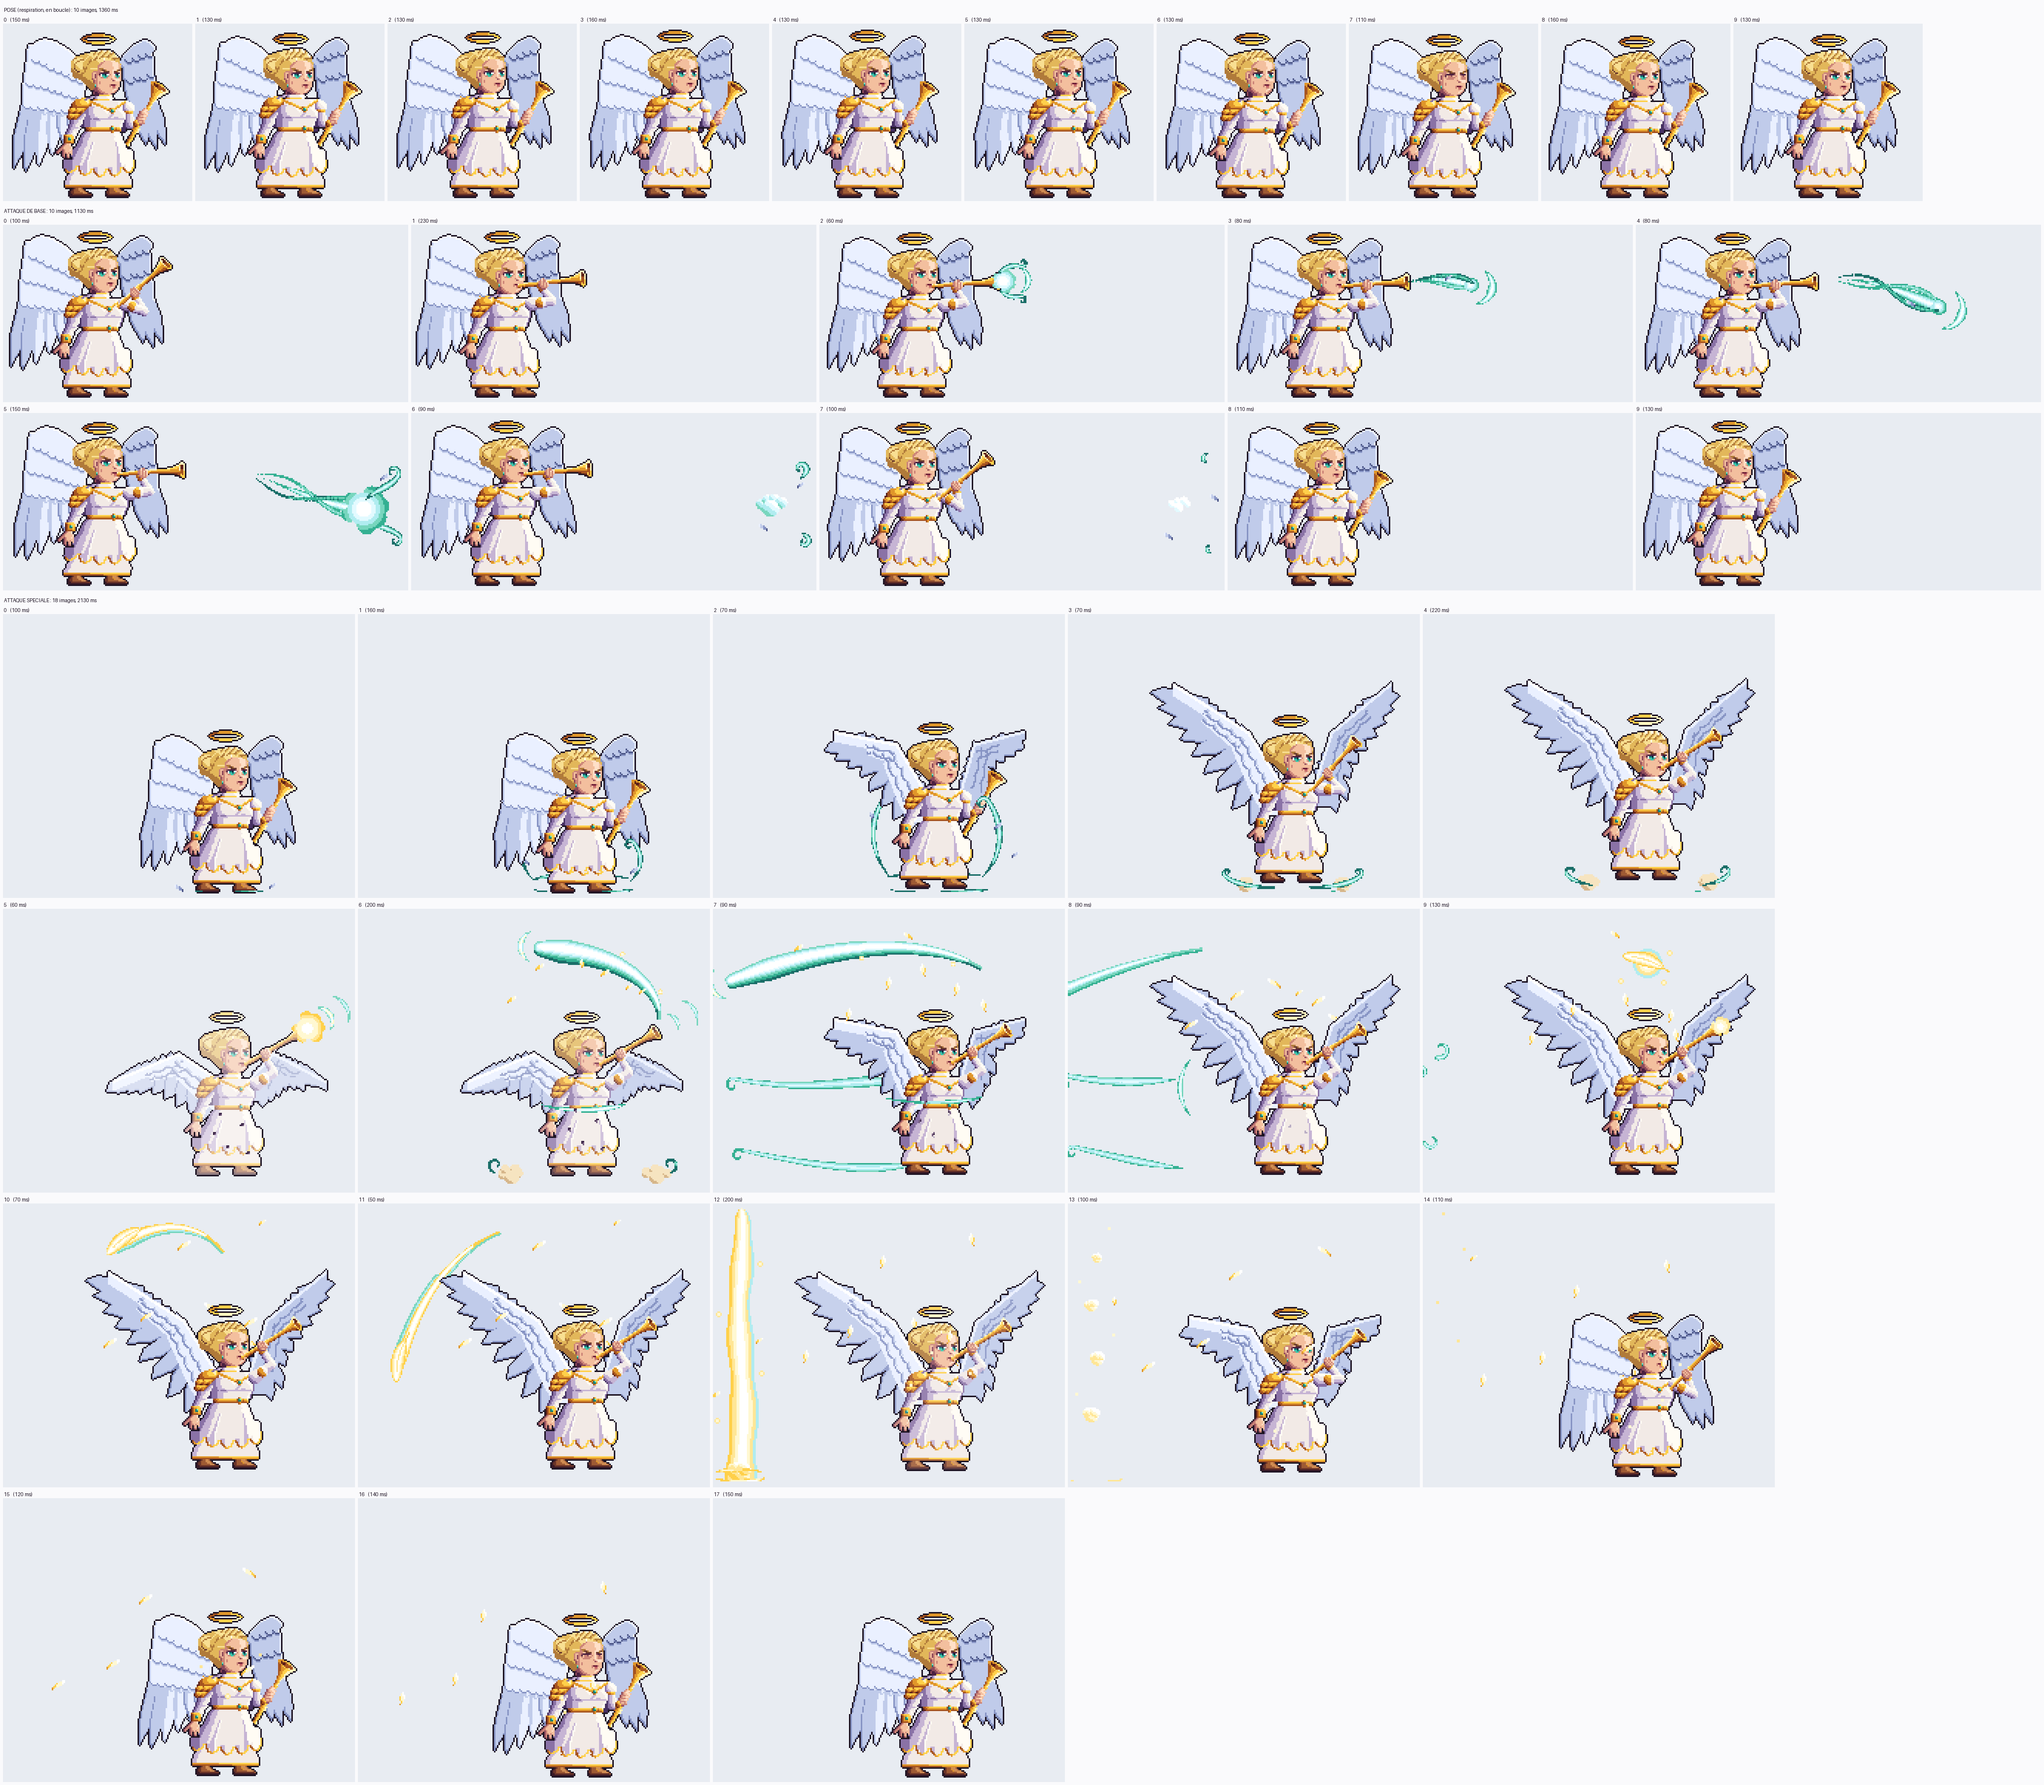
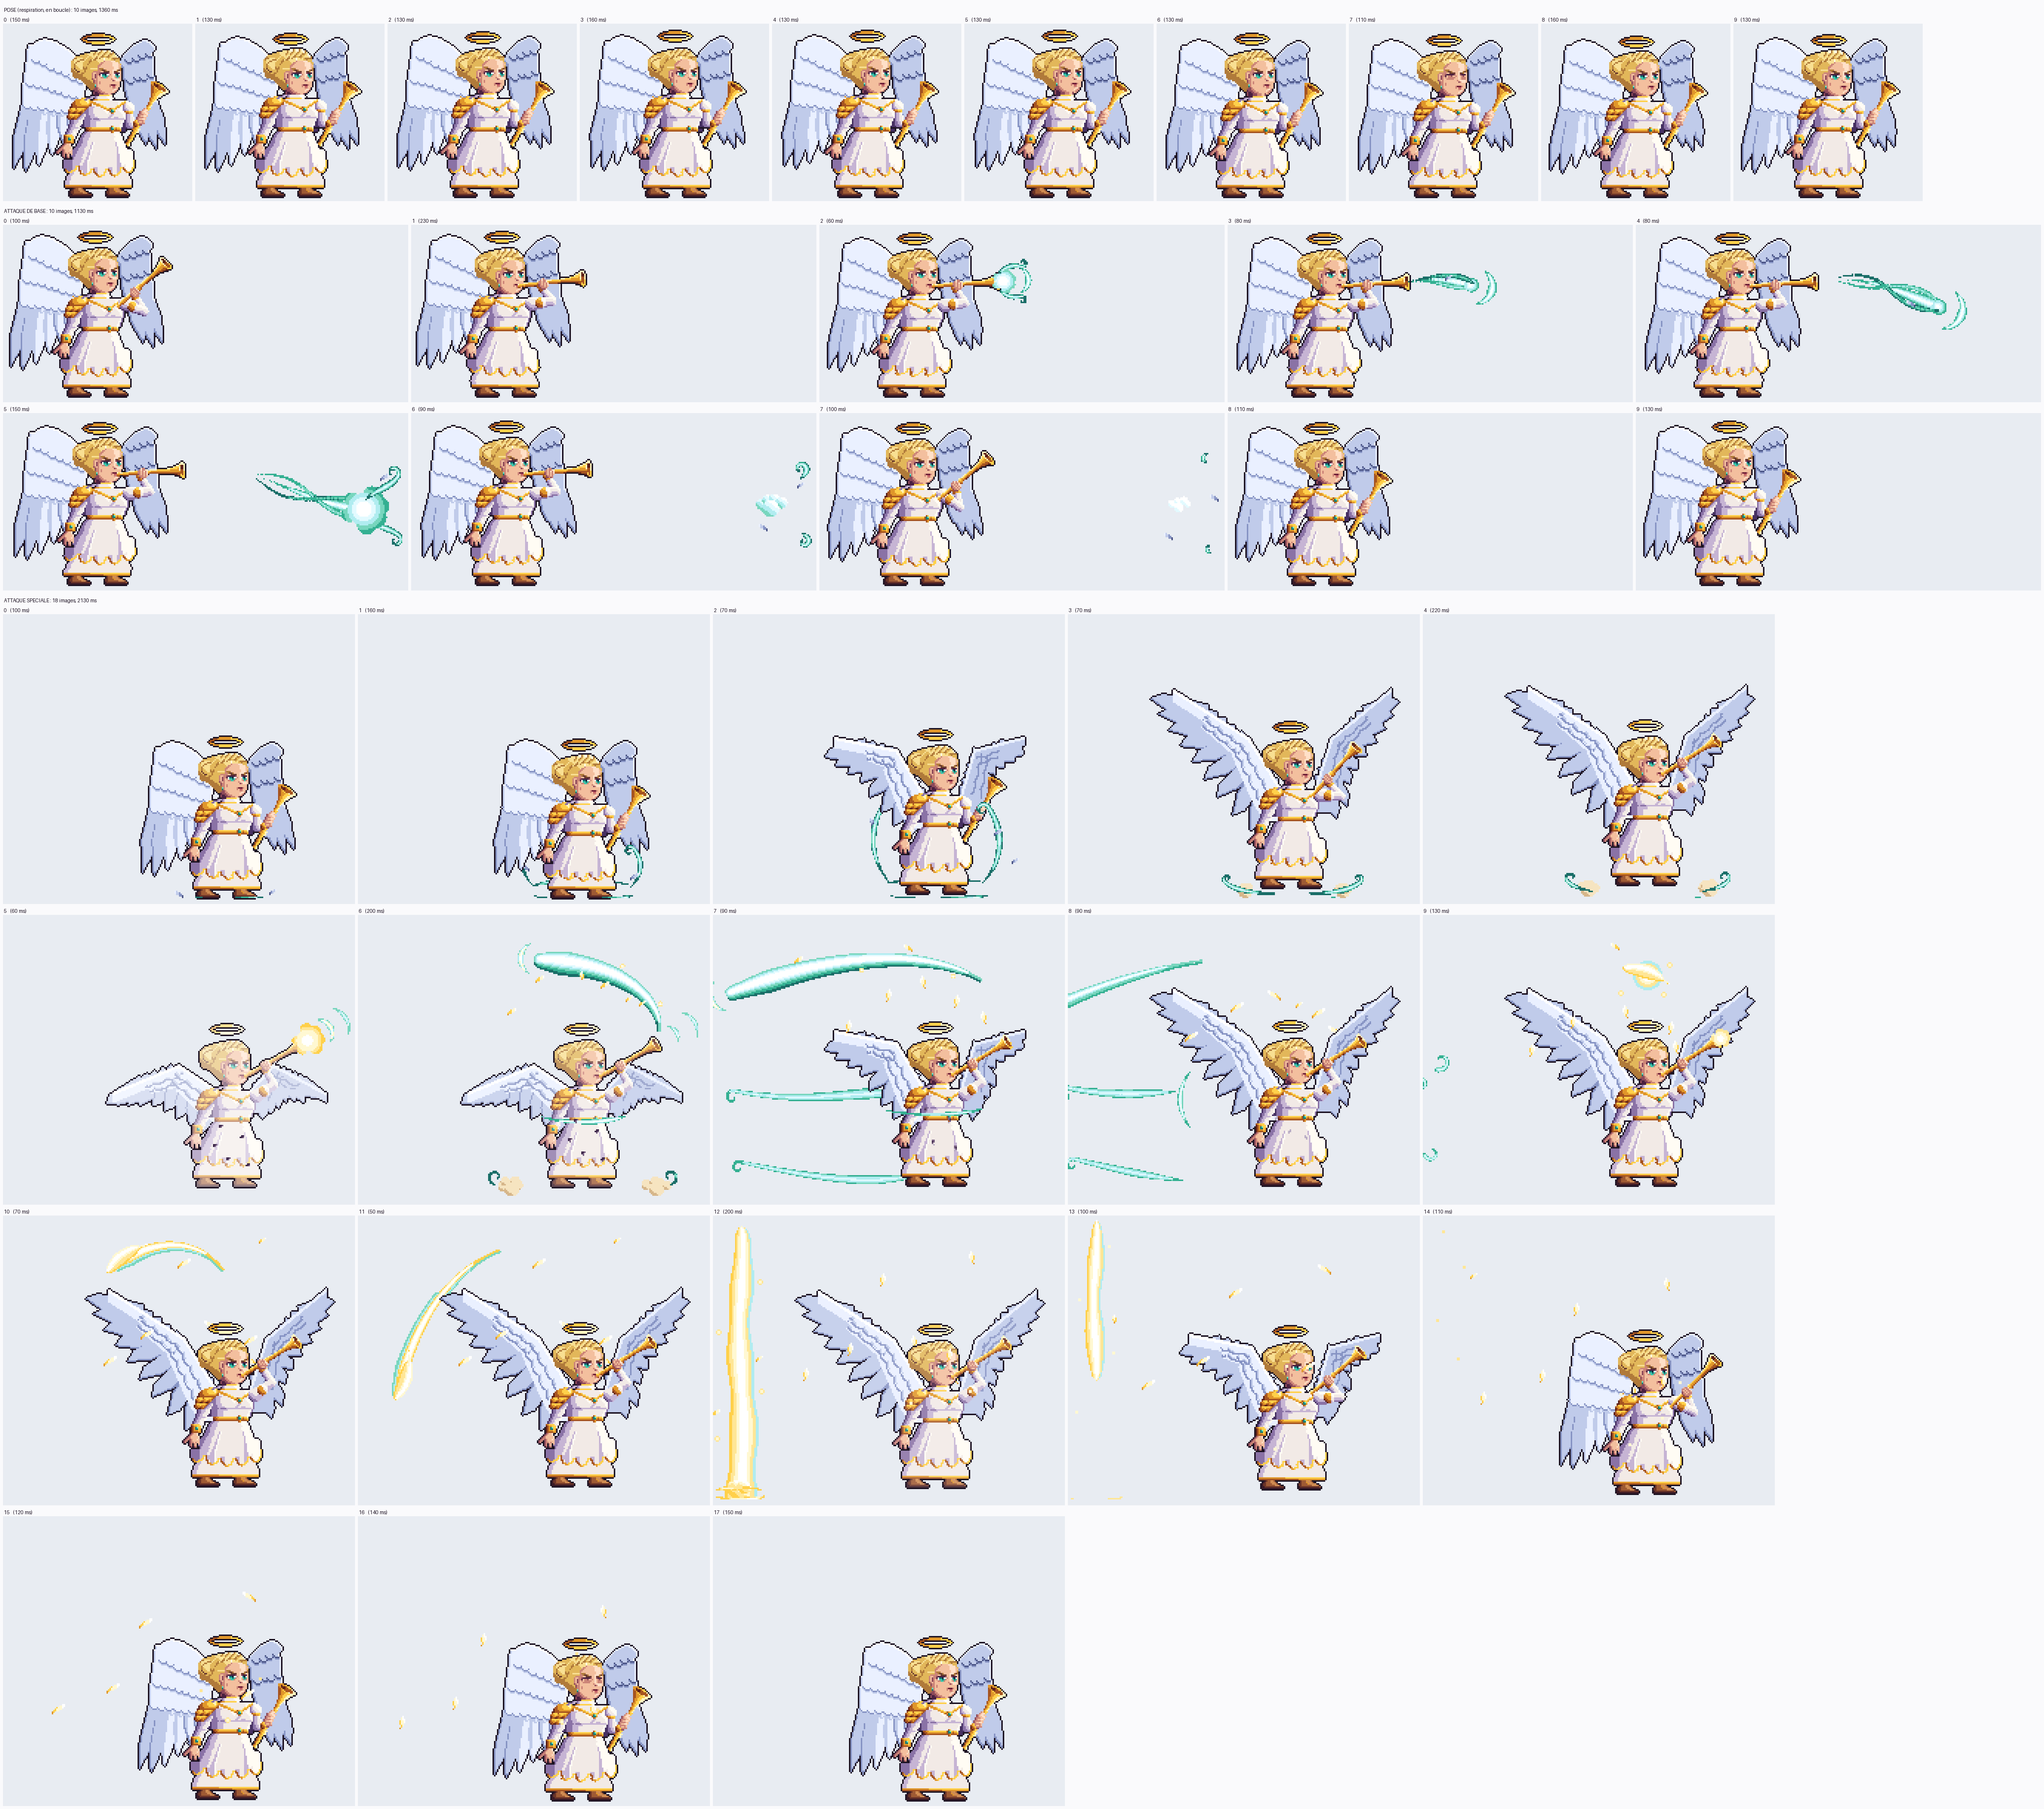
HD : spéciale d'équipe de Myrr (soin, purification, résurrection)
Claude-Session: https://claude.ai/code/session_01StTiAZjvnzYLiVPjaUWZHe

diff --git a/refonte-graphique/pixel/hd/anim/myrr/build.py b/refonte-graphique/pixel/hd/anim/myrr/build.py
@@ -14,8 +14,9 @@
 #     poings qui tiennent la trompette à l'horizontale ou levée sont dessinés à la main (grilles plus bas) ; les ailes
 #     déployées de la spéciale sont retracées plume par plume (mêmes tons, mêmes rangées d'écailles, mêmes rémiges) ;
 #   - les effets de vent reprennent les formes et la palette d'Eldra (l'autre héroïne du vent, validée) : rubans,
-#     volutes, bouffées, éclats ronds ; nouveaux ici : la vague du souffle de trompette, la tornade de plumes et les
-#     plumes de lumière qui retombent (soin) ;
+#     volutes, bouffées, éclats ronds ; nouveaux ici : la vague du souffle de trompette (attaque) et, pour la spéciale
+#     (sort d'équipe : soin, purification, résurrection, tourné vers la gauche où se tient l'équipe), l'onde de grâce,
+#     les plumes de lumière qui retombent, les taches sombres qui s'évaporent et la colonne de lumière ;
 #   - à la fin, chaque image peut recevoir des retouches pixel par pixel (RETOUCHES, plus bas).
 import sys, os, math
 import numpy as np
@@ -1314,13 +1315,13 @@ def fx_rain(k):
 # ---- la purification : de petites taches sombres apparaissent sur elle, se détachent, montent et s'évaporent
 SPECKS = [(61, 75), (75, 82), (66, 97), (79, 101), (57, 88)]          # sur la robe et le buste (grille)
 SPECK_SHAPES = [
-    [['pp', 'pq'], ['.pp', 'ppq']],                 # posées sur elle
-    [['pp', 'pq', '.q'], ['.pp', 'pq.', '.q.']],    # elles se décollent
-    [['.q', 'qp', 'q.', '.l'], ['q.', 'pq', '.q', 'l.']],
-    [['.l', 'll'], ['l.', 'll']],                   # presque évaporées
-    [['l'], ['l']],
+    [['ppq', 'pq.'], ['.pp', 'ppq']],                                   # posées sur elle
+    [['ppq', 'pq.', '.q.'], ['.pp', 'ppq', '.q.']],                     # elles se décollent (une traîne dessous)
+    [['qq', 'pq', 'q.', '.l'], ['qq', 'qp', '.q', 'l.']],               # fumée qui monte
+    [['.l', 'll', 'l.'], ['l.', 'll', '.l']],                           # presque évaporées
+    [['l.', '.l'], ['.l', 'l.']],
 ]
-SPECK_DY = [0, -3, -8, -13, -17]
+SPECK_DY = [0, -4, -11, -18, -24]
 SPECK_DX = [0, 0, -1, -2, -3]
 
 
@@ -1345,35 +1346,55 @@ COLUMN_X = 18.0                                             # où se dresse la c
 
 def light_plume(cv, tip, ang, L, wmax):
     """une grande plume de lumière : la pointe en tip, tournée vers ang (degrés) ; l'étendard s'élargit puis se
-    resserre sur le tuyau ; coeur blanc, bords d'or ; une tige d'or pâle au milieu"""
+    resserre sur le tuyau. Modelée selon la lumière (pas des bandes autour de la tige) : la moitié tournée vers la
+    lumière blanche au bord doré pâle, l'autre moitié d'or pâle au bord d'or ; une tige d'or pâle au milieu."""
     d = unit(ang)
     nrm = np.array([-d[1], d[0]])
+    if nrm @ LN < 0:                                     # nrm : vers la lumière (en haut à droite)
+        nrm = -nrm
     pts, widths = [], []
-    for i in range(41):
-        s = i / 40
-        p = np.array(tip, float) - s * L * d + 2.5 * math.sin(math.pi * s) * nrm
-        pts.append(tuple(p))
-        if s < 0.82:
-            widths.append(wmax * math.sin(math.pi * min(1.0, (s + 0.04) / 0.86)) ** 0.55 + 0.4)
+    for i in range(161):
+        s_ = i / 160
+        pts.append(np.array(tip, float) - s_ * L * d + 2.5 * math.sin(math.pi * s_) * nrm)
+        if s_ < 0.82:
+            widths.append(wmax * math.sin(math.pi * min(1.0, (s_ + 0.04) / 0.86)) ** 0.55 + 0.4)
         else:
             widths.append(1.2)
-    stroke(cv, pts, widths, 'WWghJ')
-    for (x, y) in pts[6:]:
-        X, Y = int(x), int(y)
-        if 0 <= X < W and 0 <= Y < H and cv[Y, X] in 'Wg':
-            put(cv, x, y, 'h')
+    best = {}
+    for p, wv in zip(pts, widths):
+        R = wv / 2
+        for y in range(int(p[1] - R - 1), int(p[1] + R + 2)):
+            for x in range(int(p[0] - R - 1), int(p[0] + R + 2)):
+                v = np.array([x + 0.5, y + 0.5]) - p
+                dd = math.hypot(*v)
+                if dd <= R and dd / max(R, 0.6) < best.get((x, y), (9, 0))[0]:
+                    best[(x, y)] = (dd / max(R, 0.6), v @ nrm)
+    for (x, y), (k, o) in best.items():
+        if k > 0.72:
+            ch = 'g' if o > 0 else 'J'
+        else:
+            ch = 'W' if o > -0.6 else 'h'
+        put(cv, x, y, ch)
+    for p in pts[24:150:2]:
+        X, Y = int(p[0]), int(p[1])
+        if 0 <= X < W and 0 <= Y < H and cv[Y, X] in 'Wh':
+            put(cv, X, Y, 'g')
 
 
-def column(cv, top, hw0, ph):
+def column(cv, top, hw0, ph, bottom=None):
     """la colonne de lumière, du sol jusqu'à top : évasée au pied, bords qui ondulent doucement (pas un tube raide),
     sommet arrondi comme une flamme ; coeur blanc, or pâle, bord d'or du côté de l'ombre (à gauche), bord pâle du
-    côté de la lumière (à droite)"""
+    côté de la lumière (à droite). bottom : elle ne descend plus jusqu'au sol (elle s'en va vers le haut, le bas
+    arrondi aussi)"""
     cap = hw0 * 1.8
-    for y in range(int(top), GROUND + 1):
+    end = GROUND if bottom is None else int(bottom)
+    for y in range(int(top), end + 1):
         t = (y - top) / (GROUND - top)
         hw = hw0 * (0.72 + 0.45 * t) + 1.0 * math.sin(y * 0.13 + ph)
         if y < top + cap:
             hw *= math.sqrt(max(0.0, 1 - ((top + cap - y) / cap) ** 2))
+        if bottom is not None and y > end - cap * 1.5:
+            hw *= math.sqrt(max(0.0, 1 - ((y - end + cap * 1.5) / (cap * 1.5)) ** 2))
         xc = COLUMN_X + 1.4 * math.sin(y * 0.05 + ph * 0.5)
         for x in range(int(xc - hw - 1), int(xc + hw + 2)):
             q = (x + 0.5 - xc - 0.18 * hw) / max(hw, 0.6)
@@ -1418,8 +1439,7 @@ def fx_rez(k):
             sprite(front, RAIN_SMALL[0], COLUMN_X - 19, GROUND - 60)
             return
         if k == 4:
-            for i, (dy, r) in enumerate(((-44, 5.0), (-82, 4.6), (-118, 4.0), (-150, 3.2))):
-                cloud(back, (COLUMN_X + (2 if i % 2 else -2), GROUND + dy), r, 'WWgh', seed=90 + i)
+            column(back, top - 4, 6.5, 2.0, bottom=GROUND - 80)
             ribbon(front, (COLUMN_X, GROUND - 3), 22, 5, 200, 340, 2.2, tones='gh')
             for (dx, dy) in ((-12, -58), (13, -98), (-10, -134), (10, -170)):
                 burst(front, (COLUMN_X + dx, GROUND + dy), 1.4, 'Wgh')
